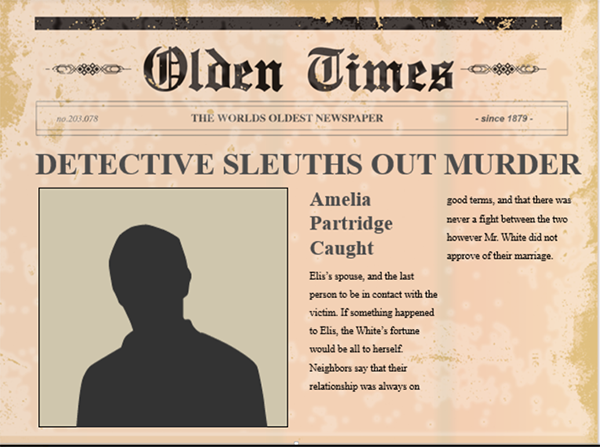
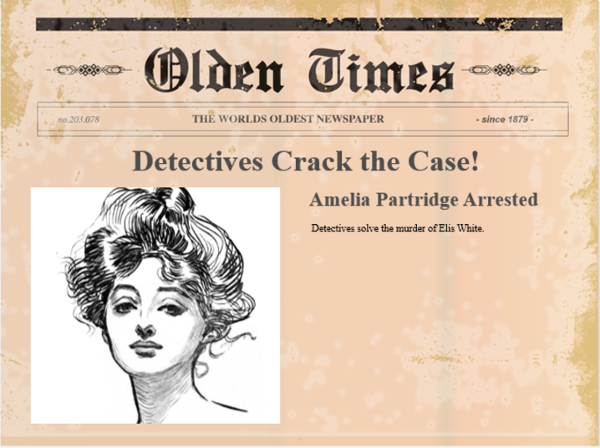
End of Saturday Class update

diff --git a/index.html b/index.html
@@ -33,16 +33,36 @@
     <div class="mpopup-content">
         <div class="row">
             <div class="col-sm-12 center-block" ">
-              <button id=gamerules class="btn btn-primary center-block ">Game Rules</button>
+              <button id=gamerules class="btn btn-primary center-block ">Study the Case</button>
             </div>
         </div>
         <div class="row ">
             <div class="col-sm-12 center-block ">
-              <button id=start class="btn btn-primary center-block ">Start Game</button>
+              <button id=start class="btn btn-primary center-block ">Interview Suspects</button>
             </div>
         </div>
     </div>
 </div> 
+<div class="container">
+  <div id="myModal" class="modal fade">
+    <div class="modal-dialog">
+        <div class="modal-content">
+            <div class="modal-header">
+                <button type="button" class="close" data-dismiss="modal" aria-hidden="true">&times;</button>
+                <h4 class="modal-title">Not a suspect!</h4>
+            </div>
+            <div class="modal-body">
+               That's not a valid suspect, try again!
+            </div>
+            <div class="modal-footer">
+                <button type="button" class="btn btn-primary start">Start</button>
+            </div>
+        </div>
+    </div>
+</div>
+  
+
+</div>
 
 <div class="container">   
     <div class="jumbotron">
@@ -50,7 +70,7 @@
       <form>
        <div class="form-group">
         <label for="guess">Have a guess? Declare your suspect:</label>
-        <input class="form-control" id="userGuess" type="text"> 
+        <input class="form-control" id="userGuess" type="text" placeholder="Enter Full Name"> 
         </div>
         <button class="btn btn-primary" id="submit" type="button" disabled="disabled">Submit</button>
       </form>
@@ -77,10 +97,8 @@
     </div>
   
     <script src="assets/javascript/app.js"></script>
-    <!-- Show modal popup box -->
-    <script>
-      mpopup.style.display = "block";
-    </script>
+    
+    
     
    </body>
 <footer>

diff --git a/assets/javascript/app.js b/assets/javascript/app.js
@@ -457,21 +457,31 @@ var config = {
 
   $("#submit").on("click", function(event) {
 
-    var userGuess = $("#userGuess").val()//.toLowerCase();
+    var userGuess = $("#userGuess").val().toLowerCase();
+    var correctAnswer = murderer.toLowerCase();
+    var suspect1Lc = suspect1name.toLowerCase();
+    var suspect2Lc = suspect2name.toLowerCase();
+    var suspect3Lc = suspect3name.toLowerCase();
     console.log(userGuess);
     $("#userGuess").val("");
 
-    if(userGuess===murderer) {
+   
+    
+    if(userGuess!==suspect1Lc&&userGuess!==suspect2Lc&userGuess!==suspect3Lc) {
+      $("#myModal").modal('show');
+      
+      ('.start').on('click', function() {
+    $('.modal').modal('hide');
+    });
+    }
+
+    else if(userGuess===correctAnswer) {
       console.log("You won!");
       winGame();
       
     }
-    //if(userGuess!==murderer||userGuess===suspect1name&&userGuess===suspect2name&&userGuess===suspect3name){
-      //console.log("You lost!");
-      //loseGame();
-    //}
     else{
-      alert("Not a valid input");
+      loseGame();
     }
     
 

diff --git a/assets/css/style.css b/assets/css/style.css
@@ -90,12 +90,17 @@ br {
 }
 
 .clues {
-  margin-top:45px;
+  width:40%;
+  margin-top:5%;
+  margin-bottom:5%;
   margin-left:25px;
+  margin-right: 10px;
 }
 
 .suspects {
-  margin-top:45px;
+  width:50%;
+  margin-top:5%;
+  margin-bottom:5%;
   margin-top:25;
 }
 
@@ -153,6 +158,8 @@ br {
   margin-top:300px;
   margin-bottom: 15px;
 }
+
+
 
 
 /*********************************************************/
